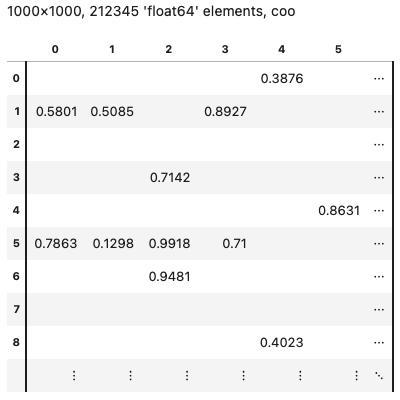
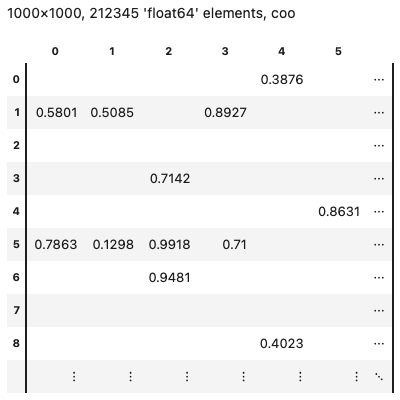
Support fractional num_after_dots

diff --git a/matrepr/adapters/__init__.py b/matrepr/adapters/__init__.py
@@ -93,11 +93,17 @@ class Truncated2DMatrix(MatrixAdapterRow):
 
         if self.display_shape[0] < self.orig_shape[0]:
             # need to truncate rows
-            self.dot_row = max(0, self.display_shape[0] - 1 - num_after_dots)
+            if 0 < num_after_dots < 1:
+                self.dot_row = int(self.display_shape[0] * num_after_dots)
+            else:
+                self.dot_row = max(0, self.display_shape[0] - 1 - int(num_after_dots))
 
         if self.display_shape[1] < self.orig_shape[1]:
             # need to truncate columns
-            self.dot_col = max(0, self.display_shape[1] - 1 - num_after_dots)
+            if 0 < num_after_dots < 1:
+                self.dot_col = int(self.display_shape[1] * num_after_dots)
+            else:
+                self.dot_col = max(0, self.display_shape[1] - 1 - int(num_after_dots))
 
     def describe(self) -> str:
         return self.description
@@ -198,7 +204,7 @@ def to_trunc(mat: MatrixAdapter, max_rows, max_cols, num_after_dots) -> Truncate
         raise ValueError("Only 1 or 2 dimensional matrices supported at this time.")
 
     if isinstance(mat, MatrixAdapterCoo):
-        if max_rows == nrows and max_cols == ncols:
+        if max_rows >= nrows and max_cols >= ncols:
             num_after_dots = 0
 
         import time
@@ -226,10 +232,12 @@ def to_trunc(mat: MatrixAdapter, max_rows, max_cols, num_after_dots) -> Truncate
                 trunc.set(row, col, val)
 
             # fetch the other three quadrants
+            dot_row = trunc.dot_row if trunc.dot_row else 0
+            dot_col = trunc.dot_col if trunc.dot_col else 0
             for row_range, col_range in [
-                ((0, max_rows), (ncols - num_after_dots, ncols)),  # top-right
-                ((nrows - num_after_dots, nrows), (0, max_cols)),  # bottom-right
-                ((nrows - num_after_dots, nrows), (ncols - num_after_dots, ncols)),  # bottom-right
+                ((0, dot_row), (dot_col + 1, ncols)),  # top-right
+                ((dot_row + 1, nrows), (0, dot_col)),  # bottom-right
+                ((dot_row + 1, nrows), (dot_col + 1, ncols)),  # bottom-right
             ]:
                 for row, col, val in mat.get_coo(row_range=row_range, col_range=col_range):
                     trunc.set(row, col, val)

diff --git a/matrepr/__init__.py b/matrepr/__init__.py
@@ -19,7 +19,7 @@ class MatReprParams:
     max_cols: int = 15
     """Maximum number of columns in HTML and Latex output."""
 
-    num_after_dots: int = 2
+    num_after_dots: Union[int, float] = 0.5
     """
     If a matrix has more rows or columns than allowed then an ellipsis (three dots) is emitted to cover the excess.
     This parameter controls how many rows/columns are drawn at the end of the matrix.
@@ -27,7 +27,7 @@ class MatReprParams:
     For example, a value of 1 means the final row and final column are emitted in addition to the top-left corner.
     A value of 2 means the final two rows and columns are emitted, with a correspondingly smaller top-left corner.
     
-    Note: ignored for matrix formats without fast row/column indexing, such as COO.
+    Note: May be ignored for very large matrices without fast row/column indexing.
     """
 
     cell_align: str = "center"
